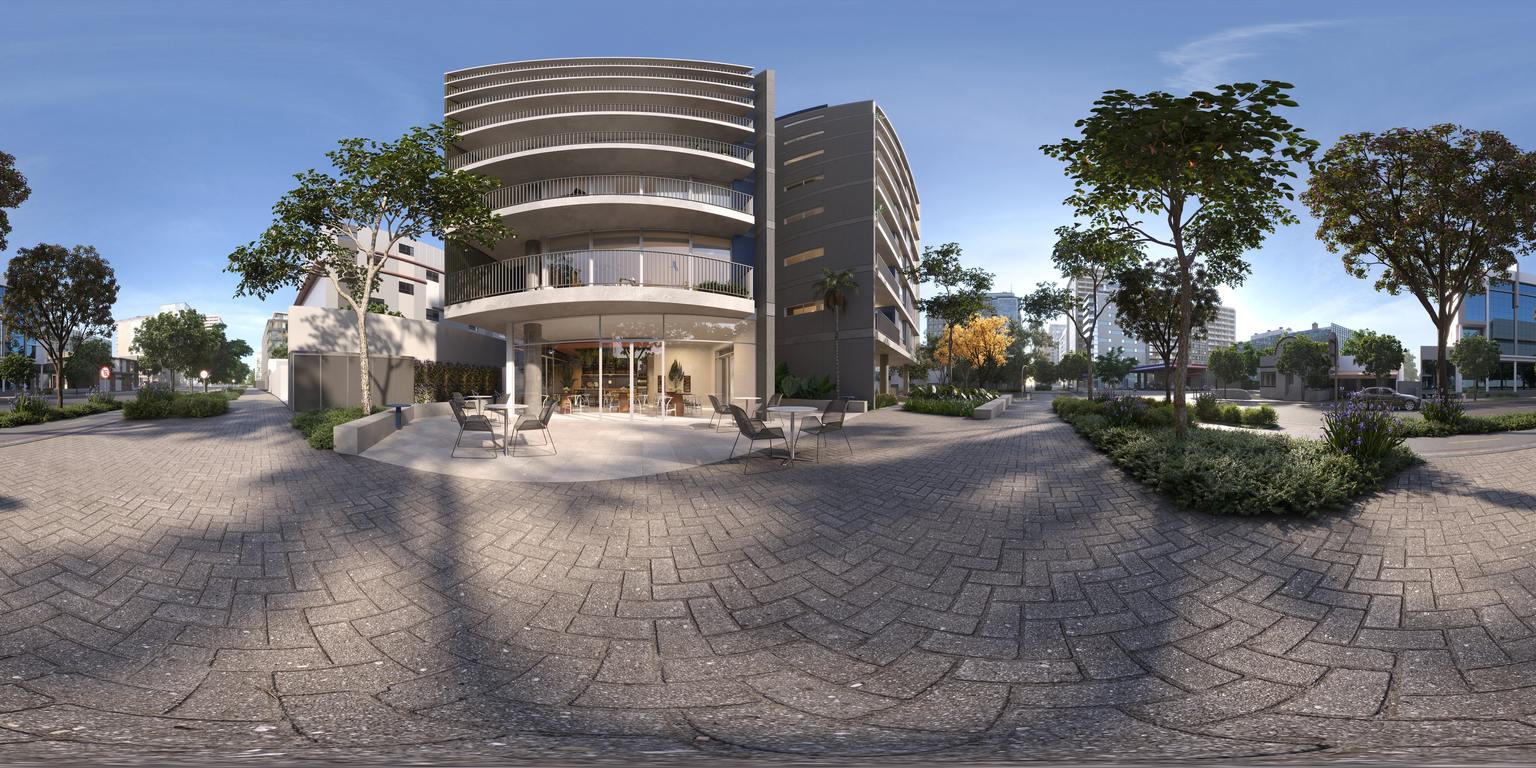
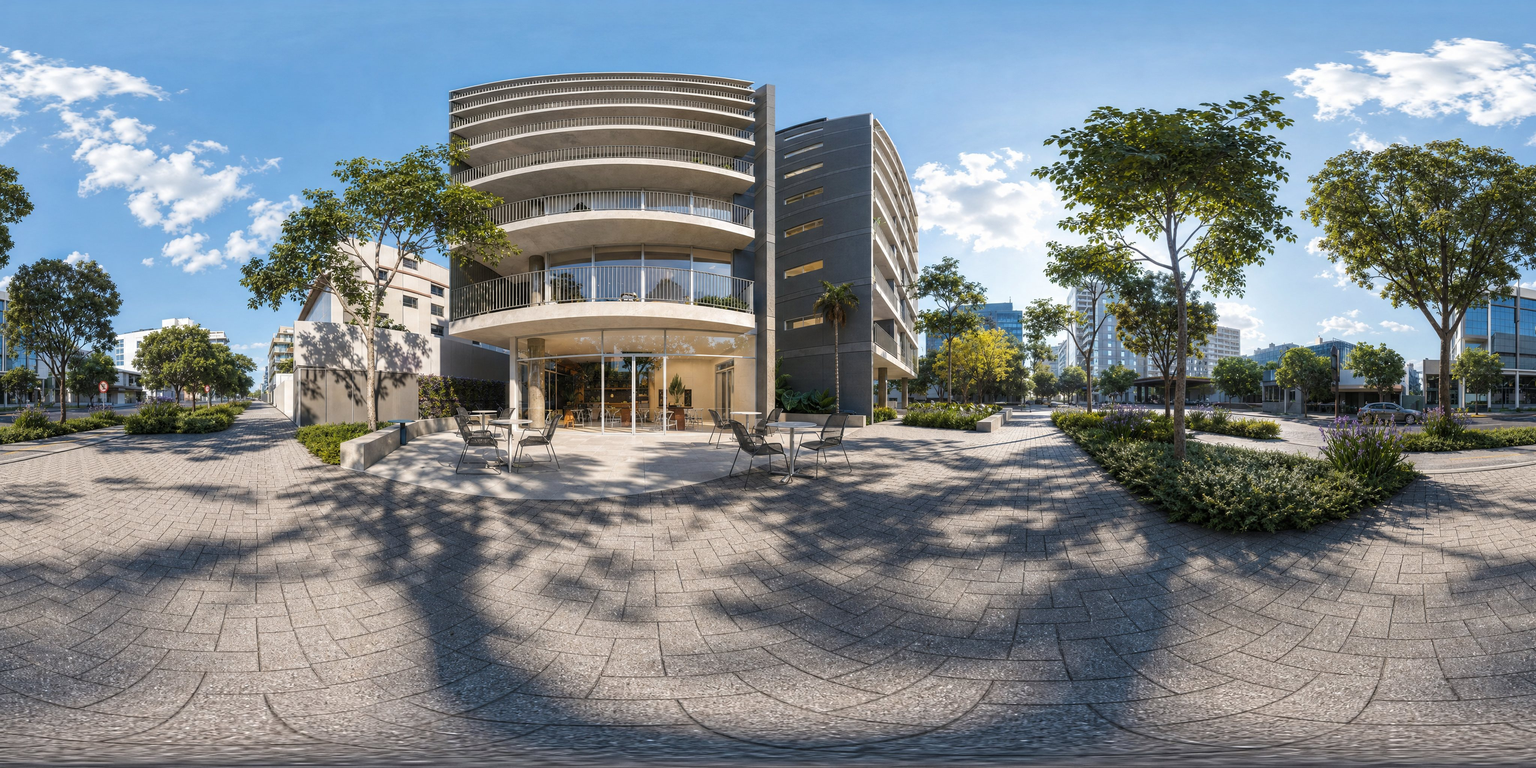
up

diff --git a/index.html b/index.html
@@ -222,6 +222,10 @@ body.calibrating .guide { display: block; }
     <svg viewBox="0 0 24 24" fill="none" stroke="currentColor" stroke-width="1.6" stroke-linecap="round"><rect x="8" y="4" width="8" height="16" rx="2"/><path d="M4.5 8.5a8 8 0 0 0 0 7M19.5 8.5a8 8 0 0 1 0 7"/></svg>
     <span class="tip">Mover o celular</span>
   </button>
+  <button class="ctl primary" id="btnNext" aria-label="Trocar imagem">
+    <svg viewBox="0 0 24 24" fill="none" stroke="currentColor" stroke-width="1.6" stroke-linecap="round" stroke-linejoin="round"><path d="M4 12a8 8 0 0 1 14-5.3L20 9M20 4v5h-5M20 12a8 8 0 0 1-14 5.3L4 15M4 20v-5h5"/></svg>
+    <span id="btnNextLabel">Trocar imagem</span>
+  </button>
   <button class="ctl" id="btnRooms" aria-label="Ambientes" aria-expanded="false">
     <svg viewBox="0 0 24 24" fill="none" stroke="currentColor" stroke-width="1.6"><rect x="4" y="4" width="7" height="7" rx="1.5"/><rect x="13" y="4" width="7" height="7" rx="1.5"/><rect x="4" y="13" width="7" height="7" rx="1.5"/><rect x="13" y="13" width="7" height="7" rx="1.5"/></svg>
     <span class="tip">Ambientes</span>
@@ -595,7 +599,7 @@ async function goTo(id, opts = {}) {
   if (!s) return;
   const my = ++navToken;
   $('#loadbar').classList.add('on');
-  const texP = loadTex(`panos/${id}_4k.jpg`);
+  const texP = loadTex(s.src ?? `panos/${id}_4k.jpg`);
   fade.classList.remove('clear');
   await sleep(320);
   let tex;
@@ -617,7 +621,7 @@ async function goTo(id, opts = {}) {
   $('#loadbar').classList.remove('on');
   if (!opts.silent) showCaption(s);
   preloadNeighbors(s);
-  if (useHiRes) {
+  if (useHiRes && !s.src) {
     loadTex(`panos/${id}_8k.jpg`, false).then((t) => { if (my === navToken) setPanoTexture(t); else t.dispose(); }).catch(() => {});
   }
   editor?.refresh();
@@ -626,7 +630,7 @@ async function goTo(id, opts = {}) {
 function preloadNeighbors(s) {
   const i = tour.scenes.indexOf(s);
   const ids = new Set([...s.hotspots.map((h) => h.to), tour.scenes[i + 1]?.id, tour.scenes[i - 1]?.id]);
-  for (const id of ids) if (id) new Image().src = `panos/${id}_4k.jpg`;
+  for (const id of ids) if (id) new Image().src = byId.get(id)?.src ?? `panos/${id}_4k.jpg`;
 }
 
 /* ---------- Interface ---------- */
@@ -681,6 +685,10 @@ function setDrawer(open) {
   $('#btnRooms').classList.toggle('on', open);
   $('#btnRooms').setAttribute('aria-expanded', String(open));
 }
+$('#btnNext').onclick = () => {
+  const i = tour.scenes.indexOf(current);
+  goTo(tour.scenes[(i + 1) % tour.scenes.length].id);
+};
 $('#btnRooms').onclick = () => setDrawer(document.body.classList.contains('drawer-closed'));
 $('#btnFs').onclick = () => {
   if (document.fullscreenElement) document.exitFullscreen?.();
